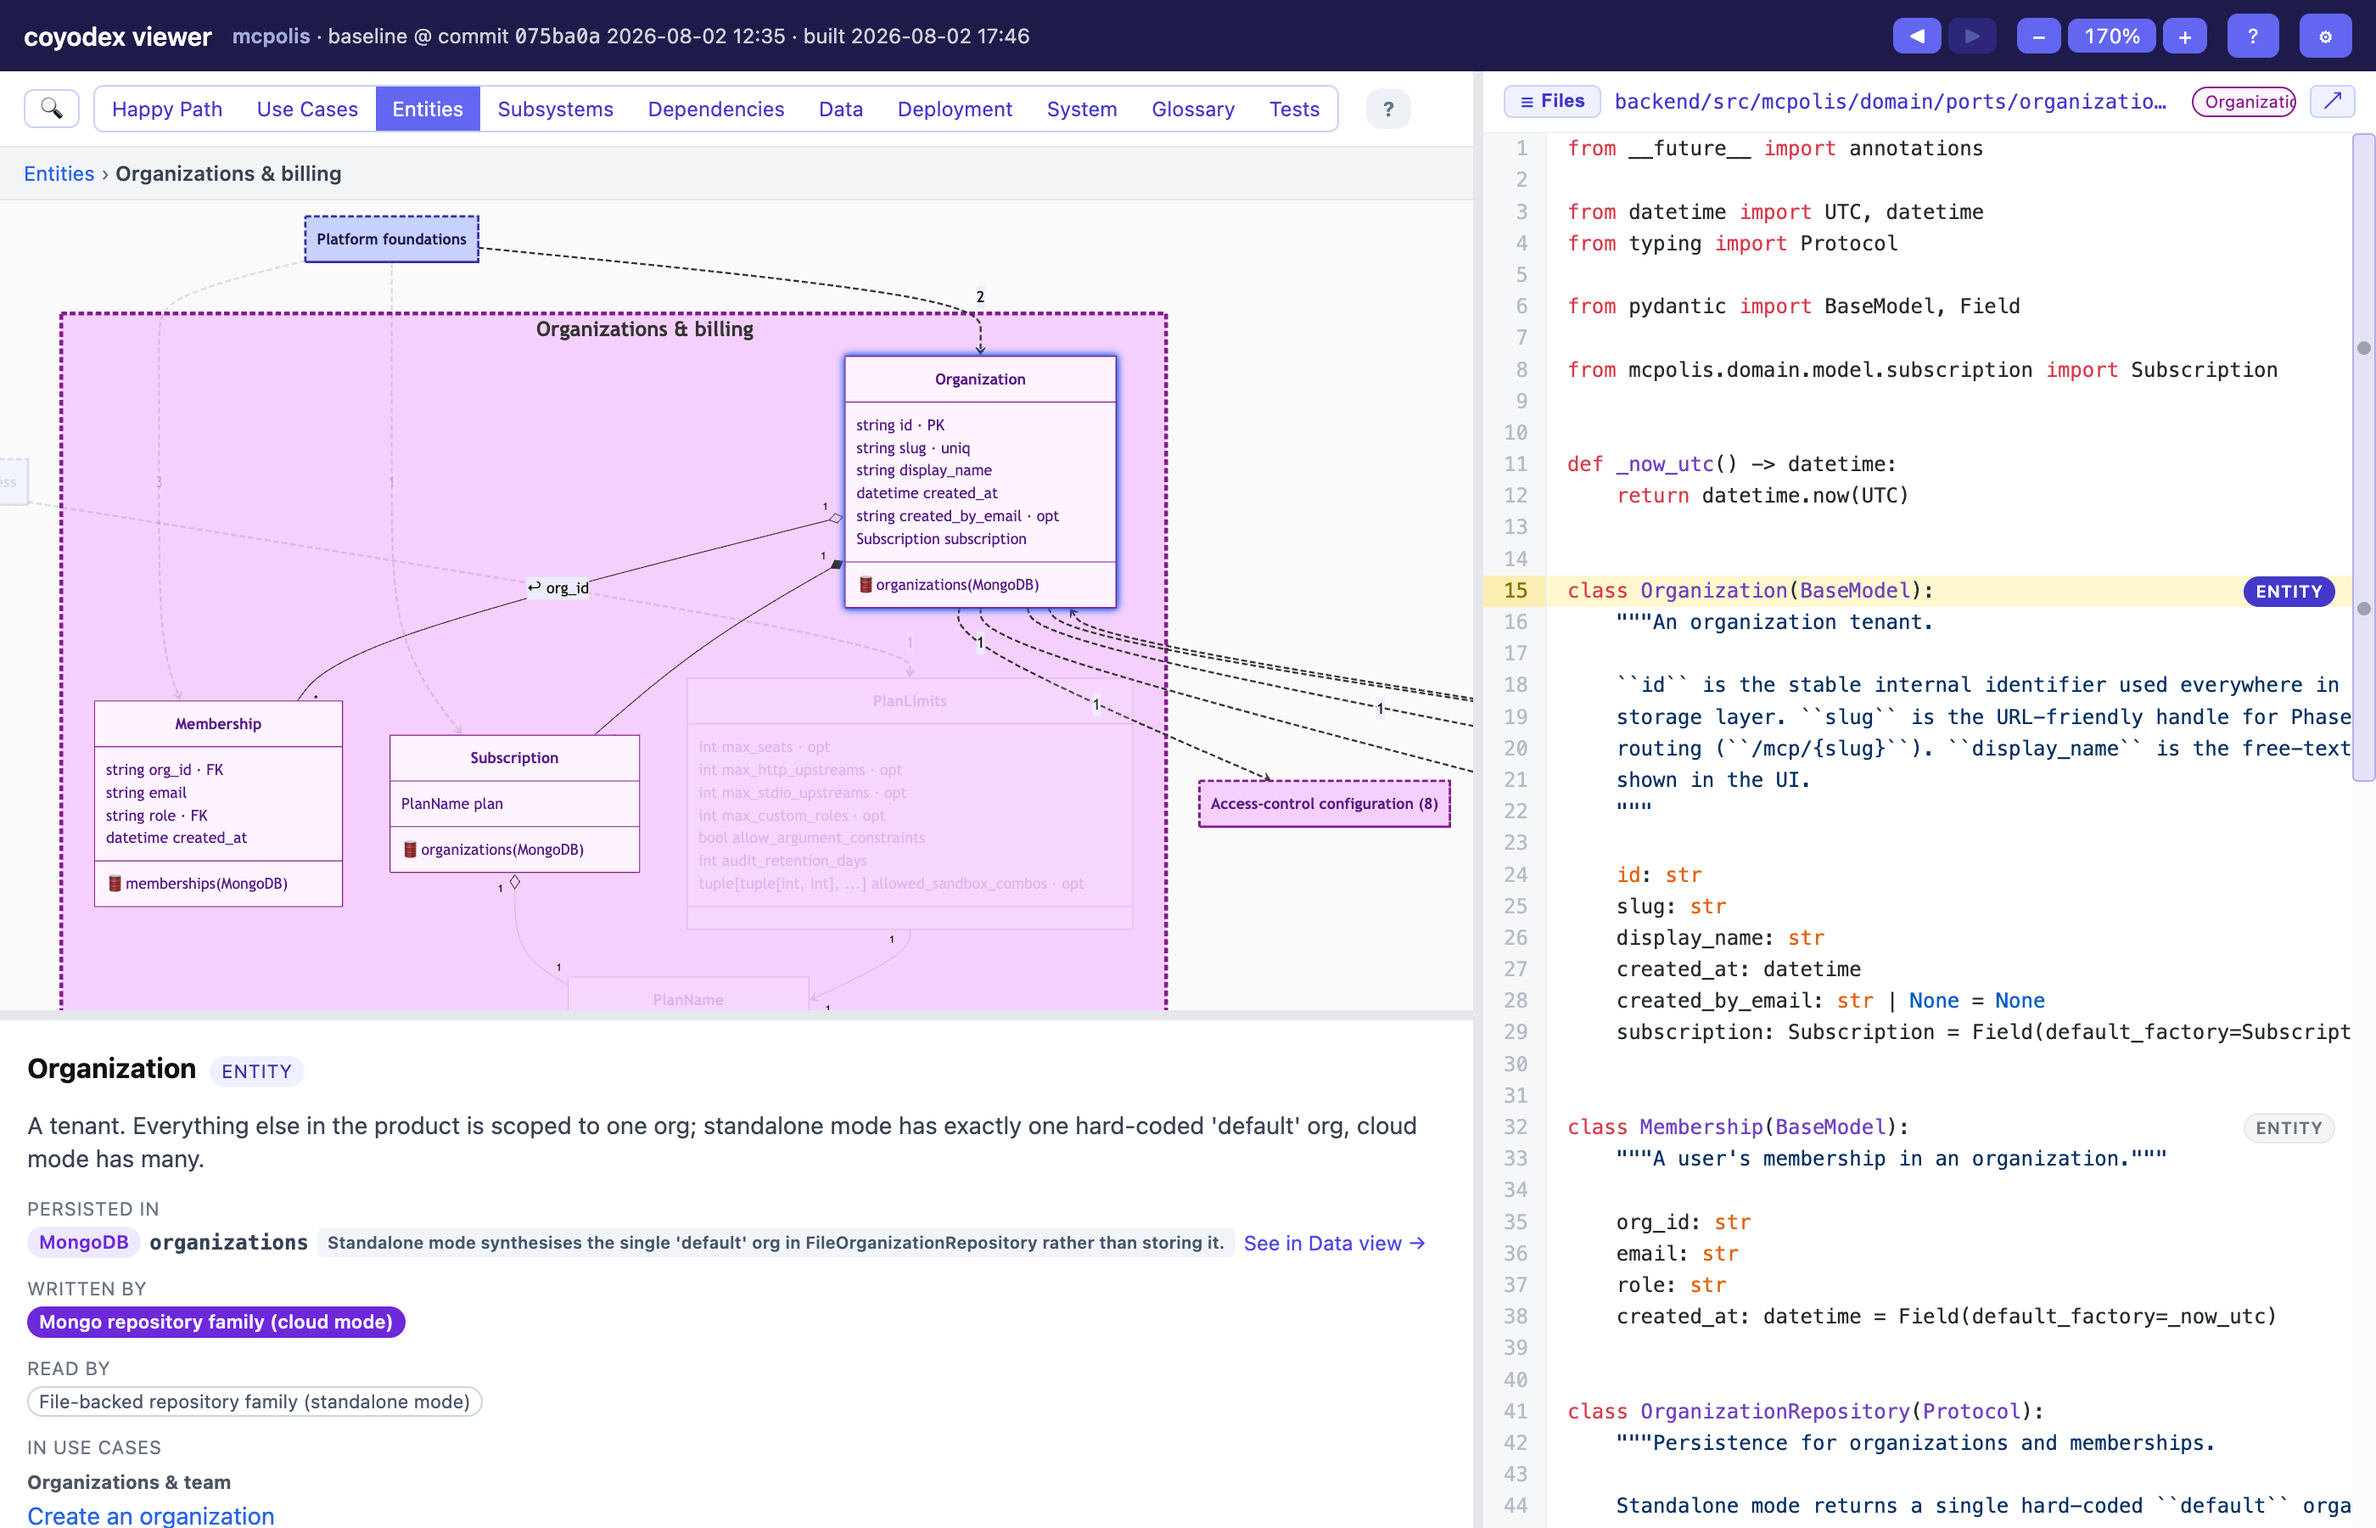
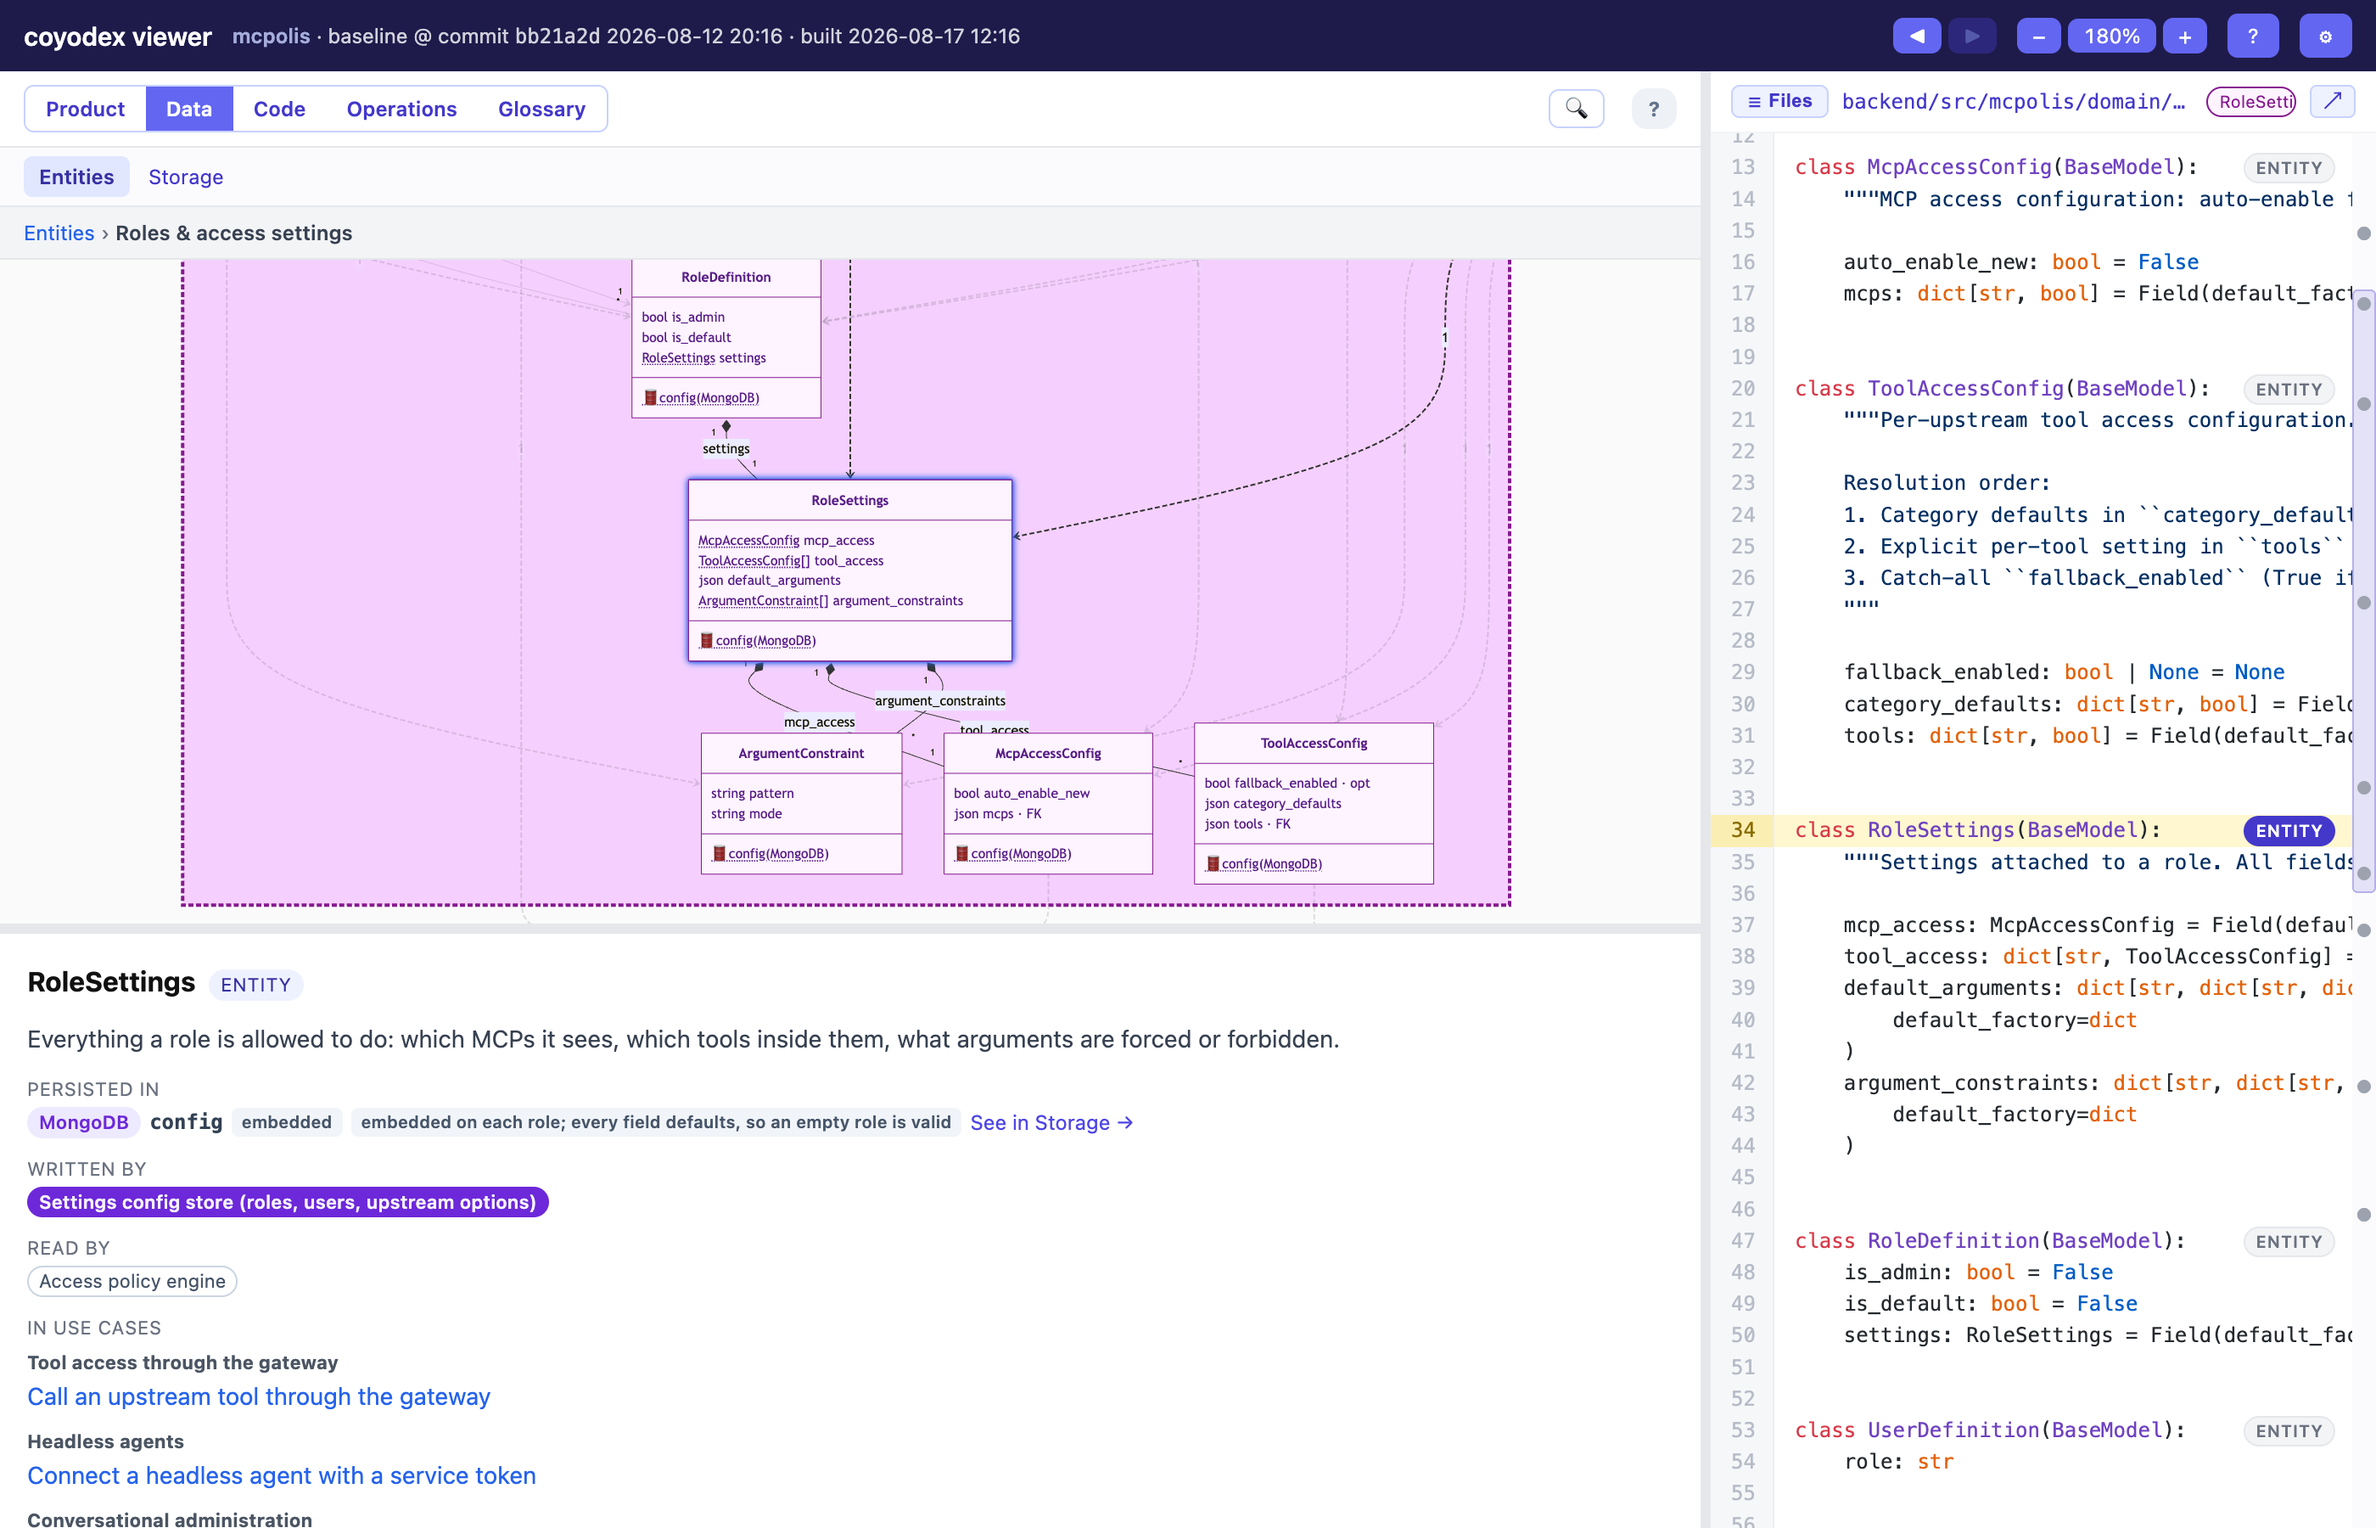
Eleven bullets for eleven views is the flat list again, in a README
The README answered "what does coyodex show" with eleven bullets under five
headings — one line per view, each a question. That is the same shape the viewer
itself just stopped using: a flat list of everything, where the reader has to hold
eleven items to learn the one thing that matters, which is that the map answers
five kinds of question.

Five bullets now, one per group, each naming its own views in the order the sub-tab
row draws them. The eleven questions are not lost; the groups carry them in a
sentence a reader gets through in one pass.

Its test follows the new shape and checks more than it did: the five group labels in
row order, and each group's bullet naming its views in tab order. A view left out of
the README does not exist for a reader, and one listed out of order contradicts the
bar they are looking at.

The screenshot is retaken on the current UI: same subject as before (one subdomain of
mcpolis's domain model, the selected entity explained beneath it, its source beside
it), now with the two-row switcher above the diagram and the code pane's `</> Source`
button. Shot at 180% rather than fit-to-screen, so the entity fields are readable
instead of being a wall of pink at thumbnail size.

diff --git a/tests/test_business_rules.py b/tests/test_business_rules.py
@@ -1919,13 +1919,23 @@ def test_an_enforced_at_pill_selects_and_frames_the_step_in_the_flow() -> None:
 
 
 def test_the_readme_lists_the_business_rules_tab_in_tab_order() -> None:
-    """The tab list is the product's advertised surface — a tab missing from it does not exist for
-    a reader, and one listed out of order contradicts the bar they are looking at. The README lists
-    the views under their group headings, so it must also agree with the group they sit in."""
-    lines = [l for l in (REPO / "README.md").read_text(encoding="utf-8").splitlines()
-             if l.startswith("- **")]
-    labels = [l.split("**")[1] for l in lines]
-    assert labels[:3] == ["Happy Path", "Features", "Rules"], labels
+    """The tab list is the product's advertised surface — a view missing from it does not exist for a
+    reader, and one listed out of order contradicts the bar they are looking at. The README names the
+    five GROUPS, each bullet naming its own views, so it has to agree on both: the group row's order,
+    and the view order inside each group."""
+    readme = (REPO / "README.md").read_text(encoding="utf-8")
+    body = readme[readme.index("The viewer presents its views in five groups"):
+                  readme.index("## Why not just ask my agent")]
+    groups = [l.split("**")[1] for l in body.splitlines() if l.startswith("- **")]
+    assert groups == ["Product", "Data", "Code", "Operations", "Glossary"], groups
+    # Each group's bullet names its views, in the order the sub-tab row draws them.
+    inside = {g: body.split(f"- **{g}**")[1].split("\n- **")[0] for g in groups}
+    for group, views in (("Product", ["Happy Path", "Features", "Rules"]),
+                         ("Data", ["Entities", "Storage"]),
+                         ("Code", ["Subsystems", "Dependencies", "Tests"]),
+                         ("Operations", ["Deployment", "System"])):
+        at = [inside[group].index(f"**{v}**") for v in views]   # raises if a view is unlisted
+        assert at == sorted(at), (group, views)
 
 
 def test_the_business_logic_tab_is_wired_at_every_registration_point() -> None:

diff --git a/README.md b/README.md
@@ -25,38 +25,21 @@ coyodex helps you recover from this situation and oversee your agent's work movi
 
 ## What coyodex shows
 
-<img src="assets/viewer.png" alt="The coyodex viewer: one group of a project's entities drawn on the left, the plain-language explanation of the selected entity below it, and that entity's source code on the right" width="100%">
+<img src="assets/viewer.png" alt="The coyodex viewer: one group of a project's entities drawn on the left, the plain-language explanation of the selected entity below it, and that entity's source code on the right. Above the diagram, the five view groups and the views inside the open one." width="100%">
 
 *The viewer: one part of a project's domain model, the selected box explained in plain language, and the code it is grounded in.*
 
-The viewer presents its views in five groups. Each view is a different diagram of the same project,
-and each one answers one question:
+The viewer presents its views in five groups, and each view answers one question:
 
-**Product** — what it does for the people who use it
-
-- **Happy Path** — What does this system do, end to end?
-- **Features** — What can this product do, feature by feature?
-- **Rules** — What does this product DECIDE, and where is each decision enforced?
-
-**Data** — what it knows about, and where that lives
-
-- **Entities** — What things does this system know about, and how do they relate?
-- **Storage** — What is stored, where, and who reads and writes it?
-
-**Code** — how the code is arranged, what it pulls in, and how well it is tested
-
-- **Subsystems** — How is the code organised, and what depends on what?
-- **Dependencies** — What does it rely on from the outside world?
-- **Tests** — What is covered by tests, and what is not?
-
-**Operations** — what runs, and how you run it
-
-- **Deployment** — What runs as its own process, and how do those talk to each other?
-- **System** — The operational facts no diagram holds: how to run it, watch it, secure it, configure it.
-
-**Glossary**
-
-- **Glossary** — What do this project's words mean?
+- **Product** — what it does for the people who use it: the **Happy Path** end to end, its
+  **Features** and the use cases inside each one, and the **Rules** it enforces.
+- **Data** — what it knows about: the **Entities** and how they relate, and the **Storage** they
+  live in.
+- **Code** — what it is made of: its **Subsystems**, the **Dependencies** it pulls in from outside,
+  and what the **Tests** cover.
+- **Operations** — what runs and how you run it: the **Deployment** topology, and the **System**
+  facts no diagram holds (how to run it, watch it, secure it, configure it).
+- **Glossary** — what this project's own words mean.
 
 ## Why not just ask my agent to diagram the code?
 
